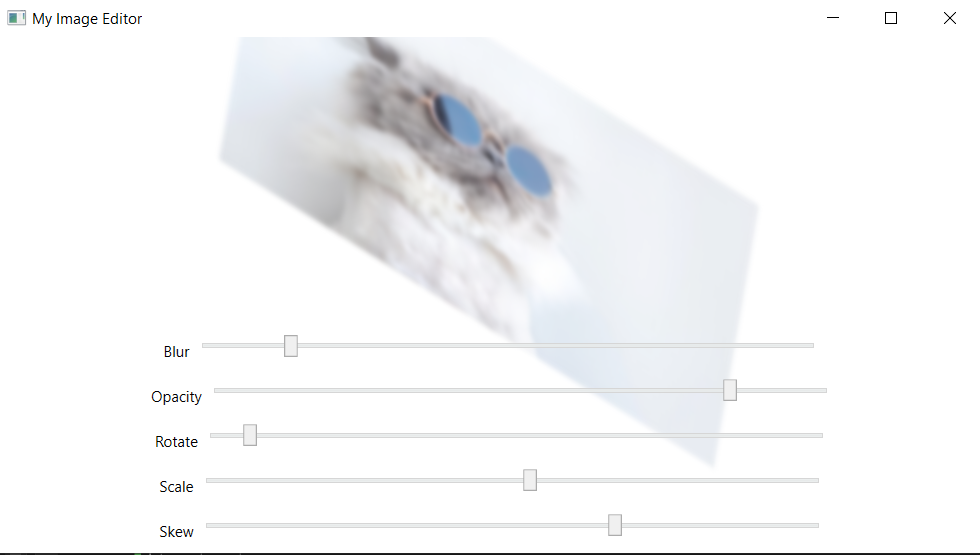
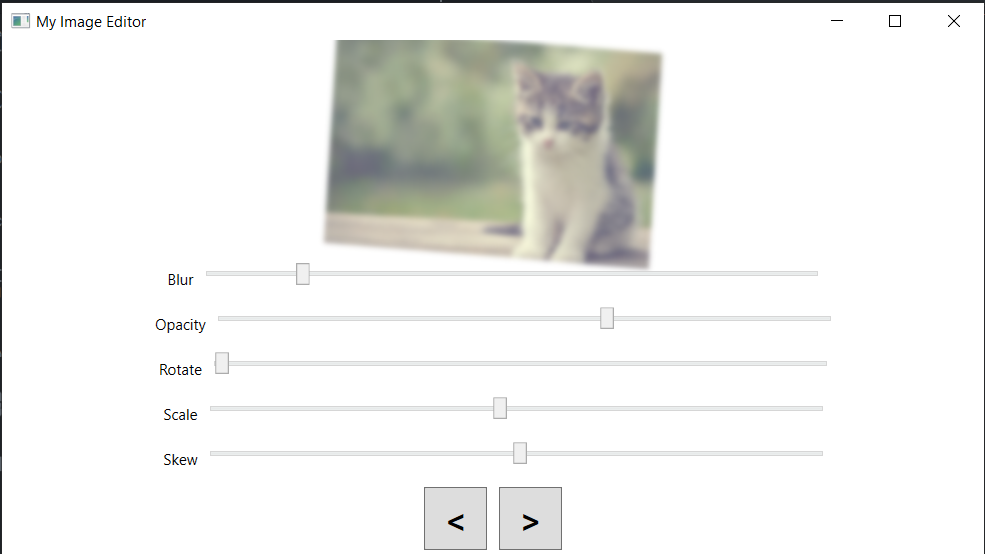
+ gallery

Changed region(s): [[0.0, 0.0614, 1.0, 1.0], [0.0, 0.0, 1.0, 0.0614], [0.1531, 0.491, 0.2143, 0.5217]]

diff --git a/ImageAndSlider/MainWindow.xaml b/ImageAndSlider/MainWindow.xaml
@@ -14,6 +14,7 @@
             <RowDefinition Height="auto"/>
             <RowDefinition Height="auto"/>
             <RowDefinition Height="auto"/>
+            <RowDefinition Height="auto"/>
         </Grid.RowDefinitions>
         <Image Name ="image" Grid.Row="0" Source="https://t4.ftcdn.net/jpg/02/11/25/91/360_F_211259199_n0LBMIpx3FGIsKjqQHt7g8u3pjH2i9OL.jpg"/>
         <Grid Grid.Row="1" HorizontalAlignment="Center" VerticalAlignment="Center" Margin="5,5,5,5">
@@ -55,6 +56,14 @@
             </Grid.ColumnDefinitions>
             <Label Content="Skew" Grid.Column="0"/>
             <Slider Name="sliderSkew" Width="500" Grid.Column="1"/>
+        </Grid>
+        <Grid Grid.Row="6" HorizontalAlignment="Center" VerticalAlignment="Center" Margin="5,5,5,5">
+            <Grid.ColumnDefinitions>
+                <ColumnDefinition Width="auto"/>
+                <ColumnDefinition Width="auto"/>
+            </Grid.ColumnDefinitions>
+            <Button Content="&lt;" Click="PreviousButtonClick" FontSize="26" FontWeight="Bold" Margin="5,0,5,0" Width="50" Height="50" Grid.Column="0"/>
+            <Button Content="&gt;" Click="NextButtonClick" FontSize="26" FontWeight="Bold" Margin="5,0,5,0" Width="50" Height="50" Grid.Column="1"/>
         </Grid>
     </Grid>
 </Window>

diff --git a/ImageAndSlider/MainWindow.xaml.cs b/ImageAndSlider/MainWindow.xaml.cs
@@ -23,6 +23,9 @@ namespace ImageAndSlider
     /// </summary>
     public partial class MainWindow : Window
     {
+        private string[] imagePaths;
+        private int currentIndex = 0;
+
         private TransformGroup transformGroup;
         private ScaleTransform scaleTransform;
         private RotateTransform rotateTransform;
@@ -30,6 +33,19 @@ namespace ImageAndSlider
         public MainWindow()
         {
             InitializeComponent();
+
+            imagePaths = new string[]
+            {
+                "https://wallpapers.com/images/high/cat-pictures-9myur9v0ca86msmx.webp",
+                "https://wallpapers.com/images/high/beautiful-cats-1600-x-1000-picture-hrwwwvyup3q0vmwg.webp",
+                "https://wallpapers.com/images/high/beautiful-cats-1080-x-1920-picture-kebu9tec6x6sknza.webp",
+                "https://wallpapers.com/images/high/beautiful-cats-2200-x-1467-picture-913bua4vrxbkagve.webp",
+                "https://wallpapers.com/images/high/beautiful-cats-1433-x-924-picture-x5cgjadw65p7t6h1.webp",
+                "https://wallpapers.com/images/high/beautiful-cats-2121-x-1414-picture-xfbykidls2i9vnw0.webp",
+                "https://wallpapers.com/images/high/beautiful-cats-2545-x-1692-picture-yv0yggf2gr811xd5.webp",
+                "https://wallpapers.com/images/high/beautiful-cats-1800-x-1200-picture-o1fx1eprdzh5j74t.webp"
+            };
+            LoadImage(currentIndex);
 
             transformGroup = new TransformGroup();
             scaleTransform = new ScaleTransform();
@@ -43,30 +59,73 @@ namespace ImageAndSlider
             transformGroup.Children.Add(rotateTransform);
             transformGroup.Children.Add(skewTransform);
 
+            InitializeSliders();
+        }
+
+        private void LoadImage(int index)
+        {
+            if (index >= 0 && index < imagePaths.Length)
+                image.Source = new BitmapImage(new Uri(imagePaths[index]));
+        }
+
+        private void PreviousButtonClick(object sender, RoutedEventArgs e)
+        {
+            if (currentIndex > 0)
+            {
+                currentIndex--;
+                LoadImage(currentIndex);
+            }
+            else if (currentIndex == 0)
+            {
+                currentIndex = imagePaths.Length - 1;
+                LoadImage(currentIndex);
+            }
+        }
+
+        private void NextButtonClick(object sender, RoutedEventArgs e)
+        {
+            if (currentIndex < imagePaths.Length - 1)
+            {
+                currentIndex++;
+                LoadImage(currentIndex);
+            }
+            else if (currentIndex == imagePaths.Length - 1)
+            {
+                currentIndex = 0;
+                LoadImage(currentIndex);
+            }
+        }
+
+        private void InitializeSliders()
+        {
             sliderBlur.Minimum = 0;
             sliderBlur.Maximum = 50;
-            sliderBlur.ValueChanged += (s, e) => { 
-                image.Effect = new BlurEffect { Radius = e.NewValue }; 
+            sliderBlur.ValueChanged += (s, e) =>
+            {
+                image.Effect = new BlurEffect { Radius = e.NewValue };
             };
 
             sliderOpacity.Minimum = 0;
             sliderOpacity.Maximum = 1;
             sliderOpacity.Value = 1;
-            sliderOpacity.ValueChanged += (s, e) => { 
-                image.Opacity = e.NewValue; 
+            sliderOpacity.ValueChanged += (s, e) =>
+            {
+                image.Opacity = e.NewValue;
             };
 
             sliderRotate.Minimum = 0;
             sliderRotate.Maximum = 360;
             sliderRotate.Value = 0;
-            sliderRotate.ValueChanged += (s, e) => { 
+            sliderRotate.ValueChanged += (s, e) =>
+            {
                 rotateTransform.Angle = e.NewValue;
             };
 
             sliderScale.Minimum = 0.1;
             sliderScale.Maximum = 2;
             sliderScale.Value = 1;
-            sliderScale.ValueChanged += (s, e) => {
+            sliderScale.ValueChanged += (s, e) =>
+            {
                 scaleTransform.ScaleX = e.NewValue;
                 scaleTransform.ScaleY = e.NewValue;
             };
@@ -74,7 +133,8 @@ namespace ImageAndSlider
             sliderSkew.Minimum = -45;
             sliderSkew.Maximum = 45;
             sliderSkew.Value = 0;
-            sliderSkew.ValueChanged += (s, e) => {
+            sliderSkew.ValueChanged += (s, e) =>
+            {
                 skewTransform.AngleX = e.NewValue;
                 skewTransform.AngleY = e.NewValue;
             };

diff --git a/README.md b/README.md
@@ -1,3 +1,9 @@
-# My Image Editor
+# My Image Editor (And Gallery)
+
+_Gallery + Editor_
 
 <img src="images/1.png" width="100%">
+<img src="images/2.png" width="100%">
+<img src="images/3.png" width="100%">
+<img src="images/4.png" width="100%">
+<img src="images/5.png" width="100%">
